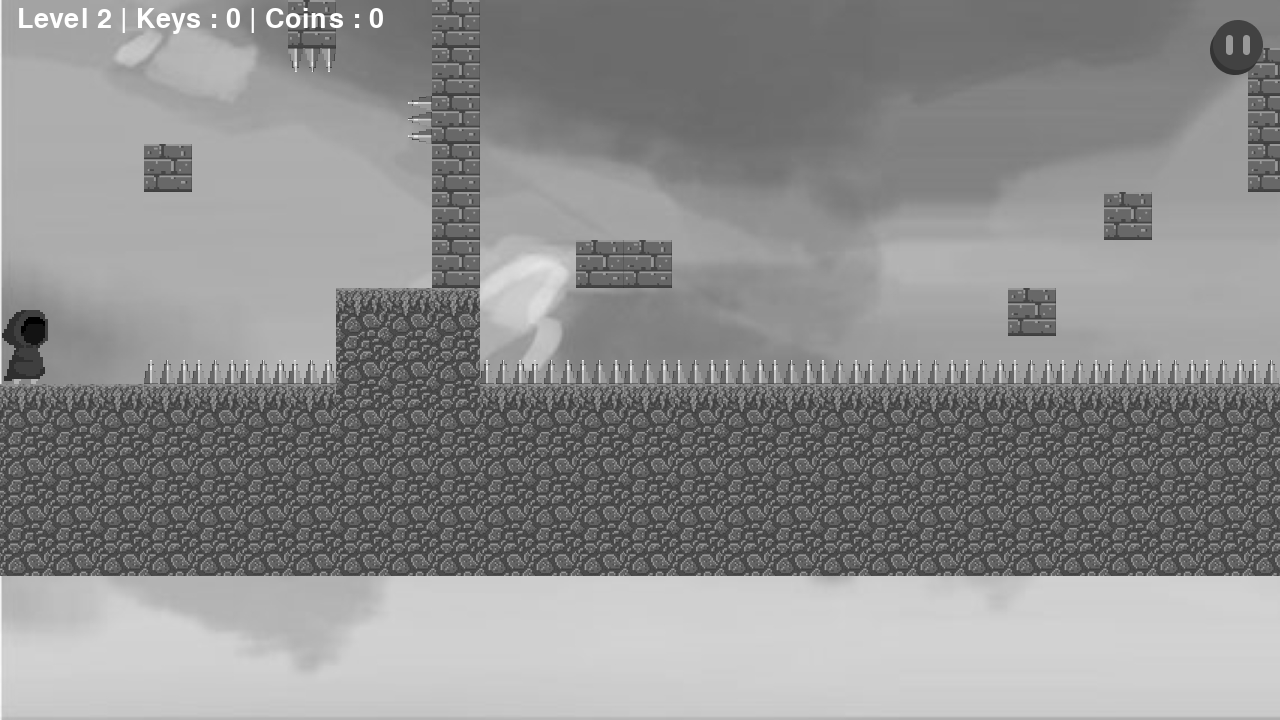
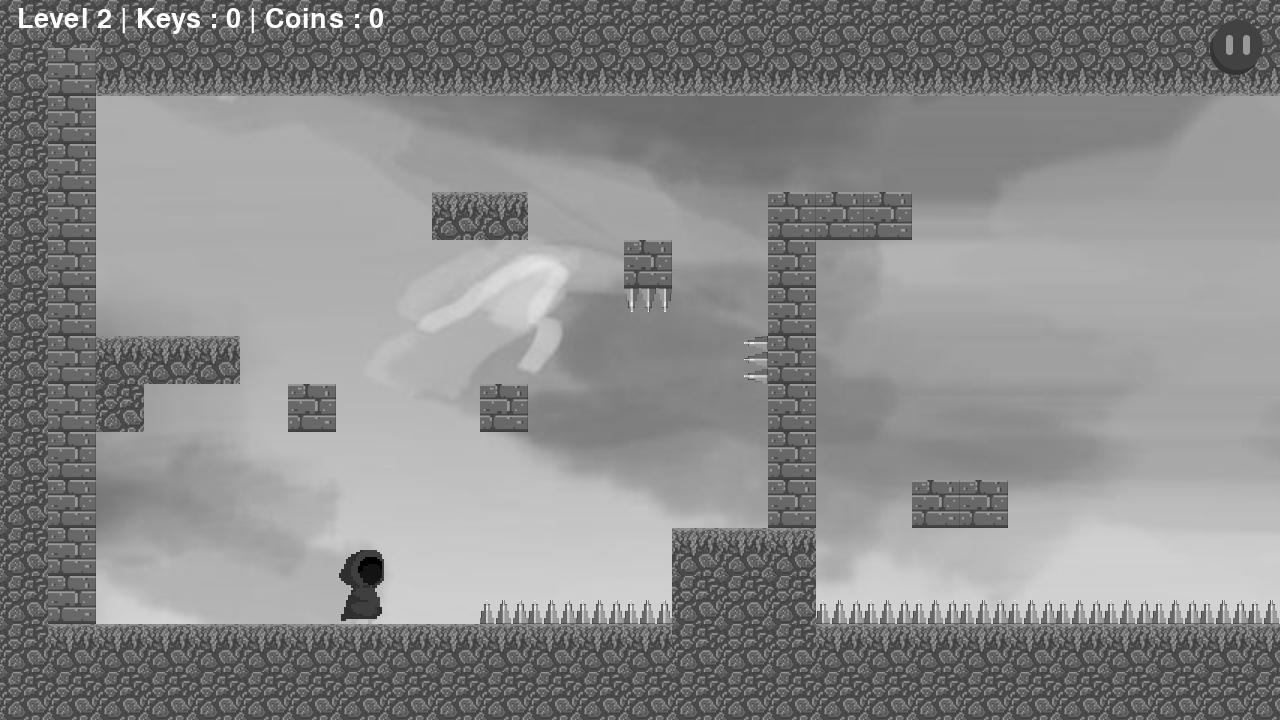
swdgxfc

diff --git a/settings.py b/settings.py
@@ -26,16 +26,16 @@ levelmap=[  [ #le joueur voit par paquet de dix lignes
  'EEEEEEEEEEEEEEEEEEEEEEEEEEEEEEEEEEEEEEEEEEEEEEEEEEEEEEEEEEEEEEEEEEEEEEEEEEEEEEEEEEEEEEEGGGGGGGGGGGGGGEEEEEEEEEEEEEEEEEEEEEEEEEEEEEEEEEEEEEEEEEEEEEEEEEEEEEEEEEEEEE',
  'EEEEEEEEEEEEEEEEEEEEEEEEEEEEEEEEEEEEEEEEEEEEEEEEEEEEEEEEEEEEEEEEEEEEEEEEEEEEEEEEEEEEEEEGGGGGGGGGGGGGGEEEEEEEEEEEEEEEEEEEEEEEEEEEEEEEEEEEEEEEEEEEEEEEEEEEEEEEEEEEEE',
  'EEEEEEEEEEEEEEEEEEEEEEEEEEEEEEEEEEEEEEEEEEEEEEEEEEEEEEEEEEEEEEEEEEEEEEEEEEEEEEEEEEEEEEEGGGGGGGGGGGGGGEEEEEEEEEEEEEEEEEEEEEEEEEEEEEEEEEEEEEEEEEEEEEEEEEEEEEEEEEEEEE',
-'EEEEEEEEEEEEEETTTTTTTTTTTTTEETTTTTTTTTTTTTTTTTTTTTTTTTTTTTTTTTTTTTTTTTTTTTTTTTTTTTTTTTTTTTTTTTTTTTTTTTTTTTTTTTTTTTTTTTTTTTTTTTTTTTTTTTTTTTTTTTTTTTTTTTTTTTTTTTTTTTT',
-'EEEEEEEEEEEEET             TT                                    W                                        WWWWWWWWWWWWWWWWWWWWWWWWWWWWWWWWWWEEEEEEEEEEEEEEEEEEEEEEE',
-'EEEEEEEEEEETT                                                    W   L                                     WWWWWWWWWWAAAAAAWWAAAAAAWWWWWWWWWEEEEEEEEEEEEEEEEEEEEEEE',
-'EEEEEEEEEET                                                      W  WWWW                                   WWWWWAAAAAAAAAAAAAAAAAAAAAAAAWWWWEEEEEEEEEEEEEEEEEEEEEEE',                                                                                                                
-'EEEEEEEEEE                                                       W  W→                                      WWWAAAAAAAAVVAAAAAAVVAAAAAAAAWWWEEEEEEEEEEEEEEEEEEEEEEE',
-'EEEEEEEEEEG                                                      W  W→                                      WWAAAAAAAAAAAAAAAAAAAAAAAAAAAAWWEEEEEEEEEEEEEEEEEEEEEEE',
-'EEEEEEEEEEE                                                      W  W→                                      WWAAAAAAAAAAAAAAAAAAAAAAAAAAAAWWEEEEEEEEEEEEEEEEEEEEEEE',
-'EEEEEEEEEEEG                                                     W  W→                    W                 WAAAAAAAAAAAAAAAAAAAAAAAAAAAAAAWEEEEEEEEEEEEEEEEEEEEEEE',
-'WEEEEEEEEEEE                                                     W  W→                    W                 WAAAAA  AAAAAAA  AAAAAAA  AAAAAWEEEEEEEEEEEEEEEEEEEEEEE',
-'WWEEEEEEEEEE         P                     W                     W  W→                    W    WUUW         W          AA      AA          WEEEEEEEEEEEEEEEEEEEEEEE',
+'EEEEEEEEEEEEEETTTTTTTTTTTTTEETTTTTTTTTTTTTTTTTEEEEEEEEEEEETTTTTTTTTTTTTTTTTTTTTTTTTTTTTTTTTTTTTTTTTTTTTTTTTTTTTTTTTTTTTTTTTTTTTTTTTTTTTTTTTTTTTTTTTTTTTTTTTTTTTTTTT',
+'EEEEEEEEEEEEET             TT                 TTTEEEEEEETT                                                 WWWWWWWWWWWWWWWWWWWWWWWWWWWWWWWWWWEEEEEEEEEEEEEEEEEEEEEEE',
+'EEEEEEEEEEETT                                    TEEEETT             L                                     WWWWWWWWWWAAAAAAWWAAAAAAWWWWWWWWWEEEEEEEEEEEEEEEEEEEEEEE',
+'EEEEEEEEEET                                       TEET              WWWW                                   WWWWWAAAAAAAAAAAAAAAAAAAAAAAAWWWWEEEEEEEEEEEEEEEEEEEEEEE',                                                                                                                
+'EEEEEEEEEE                                         TT               W→                                      WWWAAAAAAAAVVAAAAAAVVAAAAAAAAWWWEEEEEEEEEEEEEEEEEEEEEEE',
+'EEEEEEEEEEG                                                         W→                                      WWAAAAAAAAAAAAAAAAAAAAAAAAAAAAWWEEEEEEEEEEEEEEEEEEEEEEE',
+'EEEEEEEEEEE                                                         W→                                      WWAAAAAAAAAAAAAAAAAAAAAAAAAAAAWWEEEEEEEEEEEEEEEEEEEEEEE',
+'EEEEEEEEEEEG                                                        W→                    W      K          WAAAAAAAAAAAAAAAAAAAAAAAAAAAAAAWEEEEEEEEEEEEEEEEEEEEEEE',
+'WEEEEEEEEEEE                                                        W→                    W                 WAAAAA  AAAAAAA  AAAAAAA  AAAAAWEEEEEEEEEEEEEEEEEEEEEEE',
+'WWEEEEEEEEEE         P                     W                        W→                    W    WUUW         W          AA      AA          WEEEEEEEEEEEEEEEEEEEEEEE',
 'AWEEEEEEEEEEG                U             W                        W→             W   W  W                 D          AA      AA    F     WEEEEEEEEEEEEEEEEEEEEEEE',
 'AWWEEEEEEEEEEG       L  U    U        L    W               L        W↑↑↑↑↑↑        W↑↑↑W↑↑W   ↑↑↑↑↑↑↑↑↑↑         L     AAM M M AA          WEEEEEEEEEEEEEEEEEEEEEEE',
 'AAWWEEEEEEEEEEWGGGGGGGGGGGGGGEGGGGGGGGGGGGGEGGGGGGGEGGGGGGGGGGGGGGGGEGGGGGGGGGGGGGGEGGGEGGEG  GGGGGGGGGG  GGGGGGGGGGGGGGGGGGGGGGGGGGGGGGGGGEEEEEEEEEEEEEEEEEEEEEEEE',
@@ -48,23 +48,26 @@ levelmap=[  [ #le joueur voit par paquet de dix lignes
 '   ',
 'SSSSSSSSSSSSSSSSSSSSSSSSSSSSSSSSSSSSSSSSSSSSSSSSSSSSSSSSSSSSSSSSSSSSSSSSSSSSSSSSSSSSSSSSSSSSSSSSSSSSSSSSSSSSSSSSSSSSSSSSSSSSSSSSSSSSSSSSSSSSSSSSSSSSSSSSSSSSSSSSSSSSSSSSSSSSSSSSSSSSSSSSSSSSSSSSSSSSSSSSSSSSSSSSSSSSSSSSSSSSSSSSSSSSSSSSSSSSSSSSSSSSSSSSSSSSSSSSSSSSSSSSSSSSSSSSSSSSSSSSSSSSSSSSSSSSSSSSSSSSSSSSSSSSSS',
 'B'],
-[
-'   UTTTTTTTTTTTTTTTTTTTTTTTTTTTTTTTTTTTTTTTTTTTTTTTTTTTTTTTTTTTTTTTTTTTTTTTTTTTTTTTTTTTTTTTTTTTTTTTTTTTTTTTTTTTTTTTTTTTTTTTTTTTTTTTTTTTTTTTTTTTTTTTTTTT',
-'   U                                                     W        W                                                                      ',
-'   U                                                     W        W                                                                      ',
-'   U       GG     WWW                                    W        W                                                                      ',                                                                                                                
-'   U           W  W                w                     W        W                                                                       ',
-'   U           ↓  U                W         W           W        WWWWWWW                                                                        ',
-'   UGGG          ←U                W   WW                W           D                                                                    ',
-'   UE   W   W     U                W                   K U                                                                              ',
-'   U              U             W                 W      U        WWWWWWW                                                                      ',
-'   U     P        U  WW                       W       WWWW                                                                               ',
-'   U U          GGG           W                                                                                                         ',
-'   U U      ↑↑↑↑EEE↑↑↑↑↑↑↑↑↑↑↑↑↑↑↑↑↑↑↑↑↑↑↑↑↑   ↑↑↑↑↑↑↑↑↑↑↑↑↑↑↑ W↑↑↑↑↑↑↑↑↑↑↑↑↑↑↑↑↑↑↑↑↑↑↑↑↑↑↑↑↑↑↑↑↑↑↑↑↑↑↑↑↑↑↑↑↑↑↑↑↑↑↑↑↑↑↑↑↑↑↑↑↑↑↑↑↑↑↑↑↑↑↑↑↑                                                                                                                          ',
-'   GGGGGGGGGGGGGEEEGGGGGGGGGGGGGGGGGGGGGGGGG   GGGGGGGGGGGGGGG EGGGGGGGGGGGGGGGGGGGGGGGGGGGGGGGGGGGGGGGGGGGGGGGGGGGGGGGGGGGGGGGGGGGGGGGGG',
-'   EEEEEEEEEEEEEEEEEEEEEEEEEEEEEEEEEEEEEEEEE   D        K  K D EEEEEEEEEEEEEEEEEEEEEEEEEEEEEEEEEEEEEEEEEEEEEEEEEEEEEEEEEEEEEEEEEEEEEEEEEE',
-'   EEEEEEEEEEEEEEEEEEEEEEEEEEEEEEEEEEEEEEEEE       M           EEEEEEEEEEEEEEEEEEEEEEEEEEEEEEEEEEEEEEEEEEEEEEEEEEEEEEEEEEEEEEEEEEEEEEEEEE',
-'   EEEEEEEEEEEEEEEEEEEEEEEEEEEEEEEEEEEEEEEEEEEEEEEEEEEEEEEEEEEEEEEEEEEEEEEEEEEEEEEEEEEEEEEEEEEEEEEEEEEEEEEEEEEEEEEEEEEEEEEEEEEEEEEEEEEEEE                                            GGGGGGGGGGGGGG',
+['EEEEEEEEEEEEEEEEEEEEEEEEEEEEEEEEEEEEEEEEEEEEEEEEEEEEEEEEEEEEEEEEEEEEEEEEEEEEEEEEEEEEEEEGGGGGGGGGGGGGGEEEEEEEEEEEEEEEEEEEEEEEEEEEEEEEEEEEEEEEEEEEEEEEEEEEEEEEEEEEEE',
+ 'EEEEEEEEEEEEEEEEEEEEEEEEEEEEEEEEEEEEEEEEEEEEEEEEEEEEEEEEEEEEEEEEEEEEEEEEEEEEEEEEEEEEEEEGGGGGGGGGGGGGGEEEEEEEEEEEEEEEEEEEEEEEEEEEEEEEEEEEEEEEEEEEEEEEEEEEEEEEEEEEEE',
+ 'EEEEEEEEEEEEEEEEEEEEEEEEEEEEEEEEEEEEEEEEEEEEEEEEEEEEEEEEEEEEEEEEEEEEEEEEEEEEEEEEEEEEEEEGGGGGGGGGGGGGGEEEEEEEEEEEEEEEEEEEEEEEEEEEEEEEEEEEEEEEEEEEEEEEEEEEEEEEEEEEEE',
+ 'EEEEEEEEEEEEEEEEEEEEEEEEEEEEEEEEEEEEEEEEEEEEEEEEEEEEEEEEEEEEEEEEEEEEEEEEEEEEEEEEEEEEEEEGGGGGGGGGGGGGGEEEEEEEEEEEEEEEEEEEEEEEEEEEEEEEEEEEEEEEEEEEEEEEEEEEEEEEEEEEEE',
+'EEEEEEEEEEUTTTTTTTTTTTTTTTTTTTTTTTTTTTTTTTTTTTTTTTTTTTTTTTTTTTTTTTTTTTTTTTTTTTTTTTTTTTTTTTTTTTTTTTTTTTTTTTTTTTTTTTTTTTTTTTTTTTTTTTTTTTTTTTTTTTTTTTTTTTTTTTTTTT',
+'EEEEEEEEEEU                                                     W        W                                                                      ',
+'EEEEEEEEEEU                                                     W        W                                                                      ',
+'EEEEEEEEEEU       GG     WWW                                    W        W                                                                      ',                                                                                                                
+'EEEEEEEEEEU           W  W                w                     W        W                                                                       ',
+'EEEEEEEEEEU           ↓  U                W         W           W        WWWWWWW                                                                        ',
+'EEEEEEEEEEUGGG          ←U                W   WW                W           D                                                                    ',
+'EEEEEEEEEEUE   W   W     U                W                   K U                                                                              ',
+'EEEEEEEEEEU              U             W                 W      U        WWWWWWW                                                                      ',
+'EEEEEEEEEEU     P        U  WW                       W       WWWW                                                                               ',
+'EEEEEEEEEEU            GGG           W                                                                                                         ',
+'EEEEEEEEEEU        ↑↑↑↑EEE↑↑↑↑↑↑↑↑↑↑↑↑↑↑↑↑↑↑↑↑↑↑↑↑↑   ↑↑↑↑↑↑↑↑↑↑↑↑↑↑↑ W↑↑↑↑↑↑↑↑↑↑↑↑↑↑↑↑↑↑↑↑↑↑↑↑↑↑↑↑↑↑↑↑↑↑↑↑↑↑↑↑↑↑↑↑↑↑↑↑↑↑↑↑↑↑↑↑↑↑↑↑↑↑↑↑↑↑↑↑↑↑↑↑↑                                                                                                                          ',
+'EEEEEEEEEEGGGGGGGGGGGGGEEEGGGGGGGGGGGGGGGGGGGGGGGGG   GGGGGGGGGGGGGGG EGGGGGGGGGGGGGGGGGGGGGGGGGGGGGGGGGGGGGGGGGGGGGGGGGGGGGGGGGGGGGGGGGGGGGGGGG',
+'EEEEEEEEEEEEEEEEEEEEEEEEEEEEEEEEEEEEEEEEEEEEEEEEEEE   D        K  K D EEEEEEEEEEEEEEEEEEEEEEEEEEEEEEEEEEEEEEEEEEEEEEEEEEEEEEEEEEEEEEEEEEEEEEEEEE',
+'EEEEEEEEEEEEEEEEEEEEEEEEEEEEEEEEEEEEEEEEEEEEEEEEEEE       M           EEEEEEEEEEEEEEEEEEEEEEEEEEEEEEEEEEEEEEEEEEEEEEEEEEEEEEEEEEEEEEEEEEEEEEEEEE',
+'EEEEEEEEEEEEEEEEEEEEEEEEEEEEEEEEEEEEEEEEEEEEEEEEEEEEEEEEEEEEEEEEEEEEEEEEEEEEEEEEEEEEEEEEEEEEEEEEEEEEEEEEEEEEEEEEEEEEEEEEEEEEEEEEEEEEEEEEEEEEEEEE                                            GGGGGGGGGGGGGG',
 '   ',
 '   ',
 '   ',

diff --git a/player.py b/player.py
@@ -62,7 +62,6 @@ class Player(pygame.sprite.Sprite): #Création de la class
             return
         elif self.status == 'weapon':
             if self.weapon < 11:
-                print(self.weapon)
                 image = animation[int(self.weapon)]
                 self.weapon += 0.5
                 if self.facing_right: #si le joueur est tourné vers la droite, retourner l'image

diff --git a/main2.py b/main2.py
@@ -40,7 +40,7 @@ class Level:
         if FULL == "True" or WIDTH==1920:
             y_patch = 0
         elif WIDTH==1280:
-            y_patch = - 4
+            y_patch = - 3
             x_patch = 9
         elif WIDTH==1000:
             y_patch = - 4
